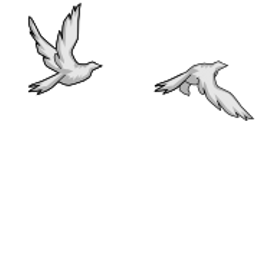
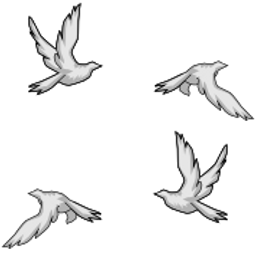
mmeehh

Changed region(s): [[0.5938, 0.5, 0.9062, 0.875], [0.0, 0.7188, 0.4062, 0.9688]]

diff --git a/src/entities/pigeon.js b/src/entities/pigeon.js
@@ -1,0 +1,41 @@
+define(["engine/entity", "components/sprite", "text!sprites/pigeon.json"], 
+  function(Entity, SpriteComponent, SPRITE_SRC){
+
+  var SPRITE_JSON = JSON.parse(SPRITE_SRC);
+
+  return function(setupOptions){
+
+    setupOptions = setupOptions || {};
+
+    var entity = new Entity({
+      name: "player",
+      components: [
+        new SpriteComponent({
+          size: 7,
+          sprite: SPRITE_JSON
+        }),
+      ],
+      families : ["Monster", "Projectile"],
+      collisionPoints: { // TODO fix the collisionPoints positions
+        downA1: [-0.3, -0.6, 0], 
+        downA2: [-0.3, -0.90, 0],
+        downB1: [ 0.3, -0.6, 0], 
+        downB2: [ 0.3, -0.90, 0],
+        right1: [0.5, -0.3, 0],
+        right2: [0.6, -0.3, 0]
+      },
+      speed:[0,0,0],
+      position: setupOptions.position,
+      rotation: setupOptions.rotation,
+      size: [2, 2]
+    });
+
+    entity.setAnimation = function(animName) {
+      entity.components["sprite"].currentAnimation = animName;
+    }
+
+    return entity;
+
+  };
+
+});
